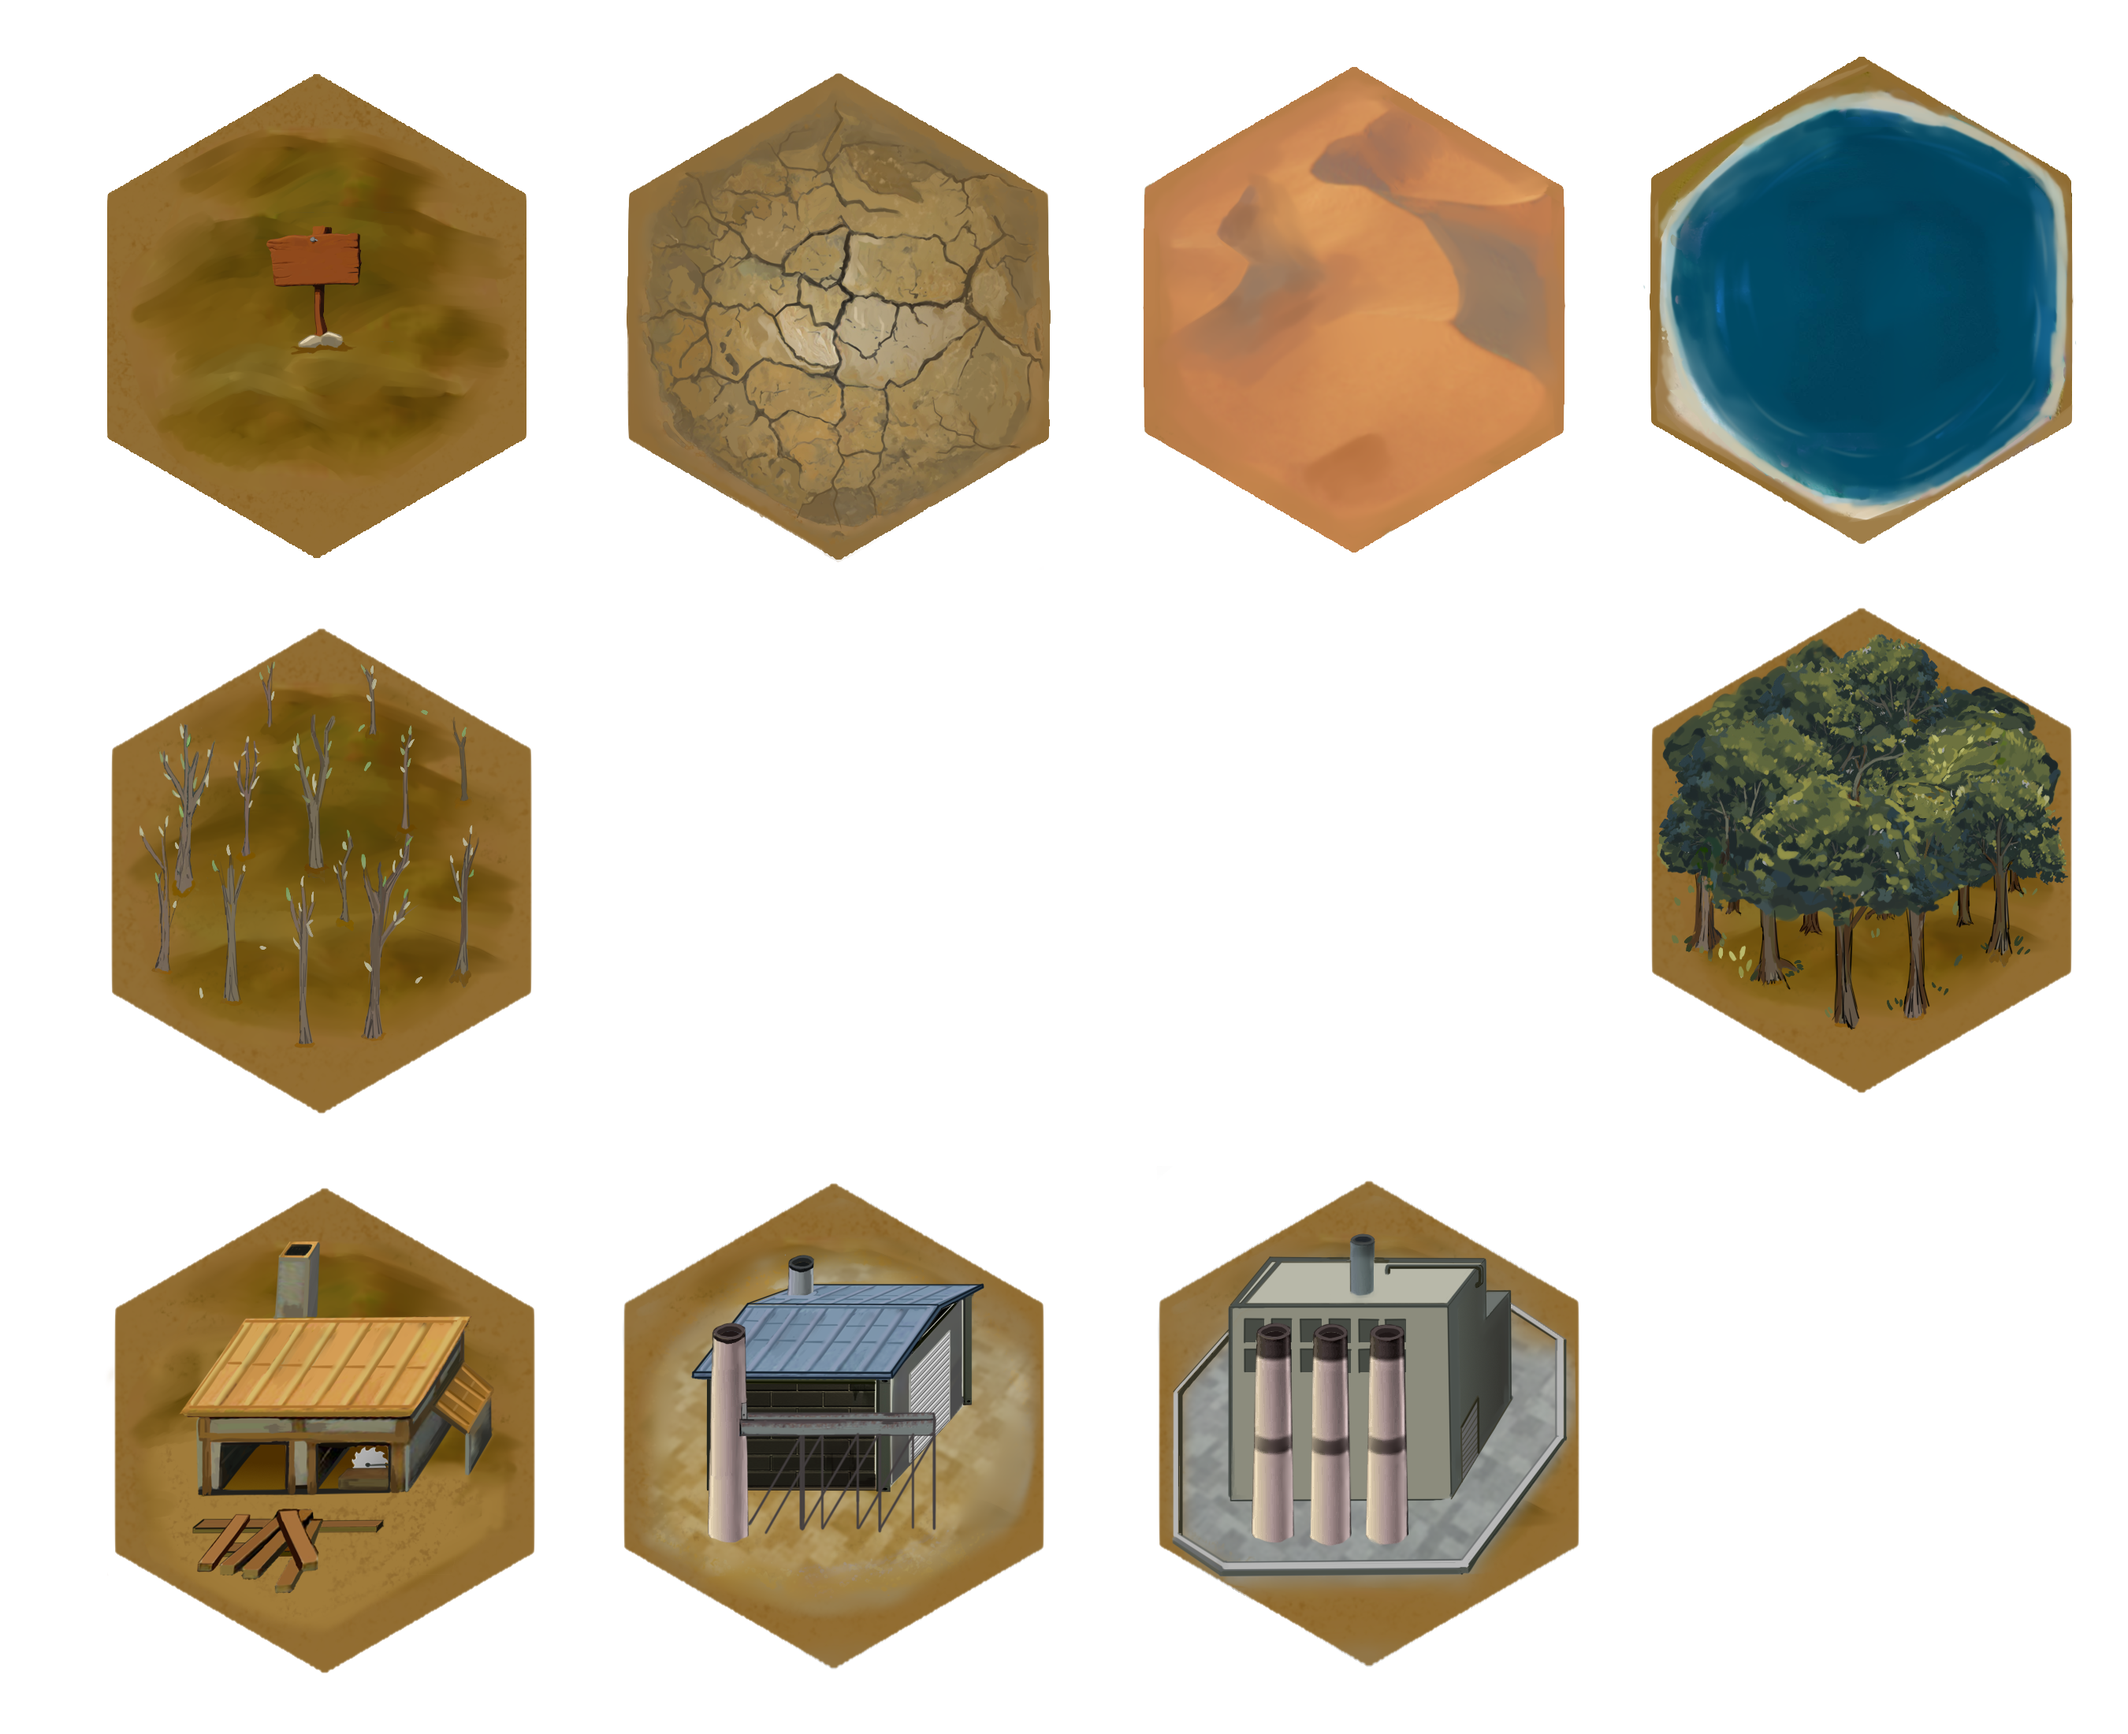
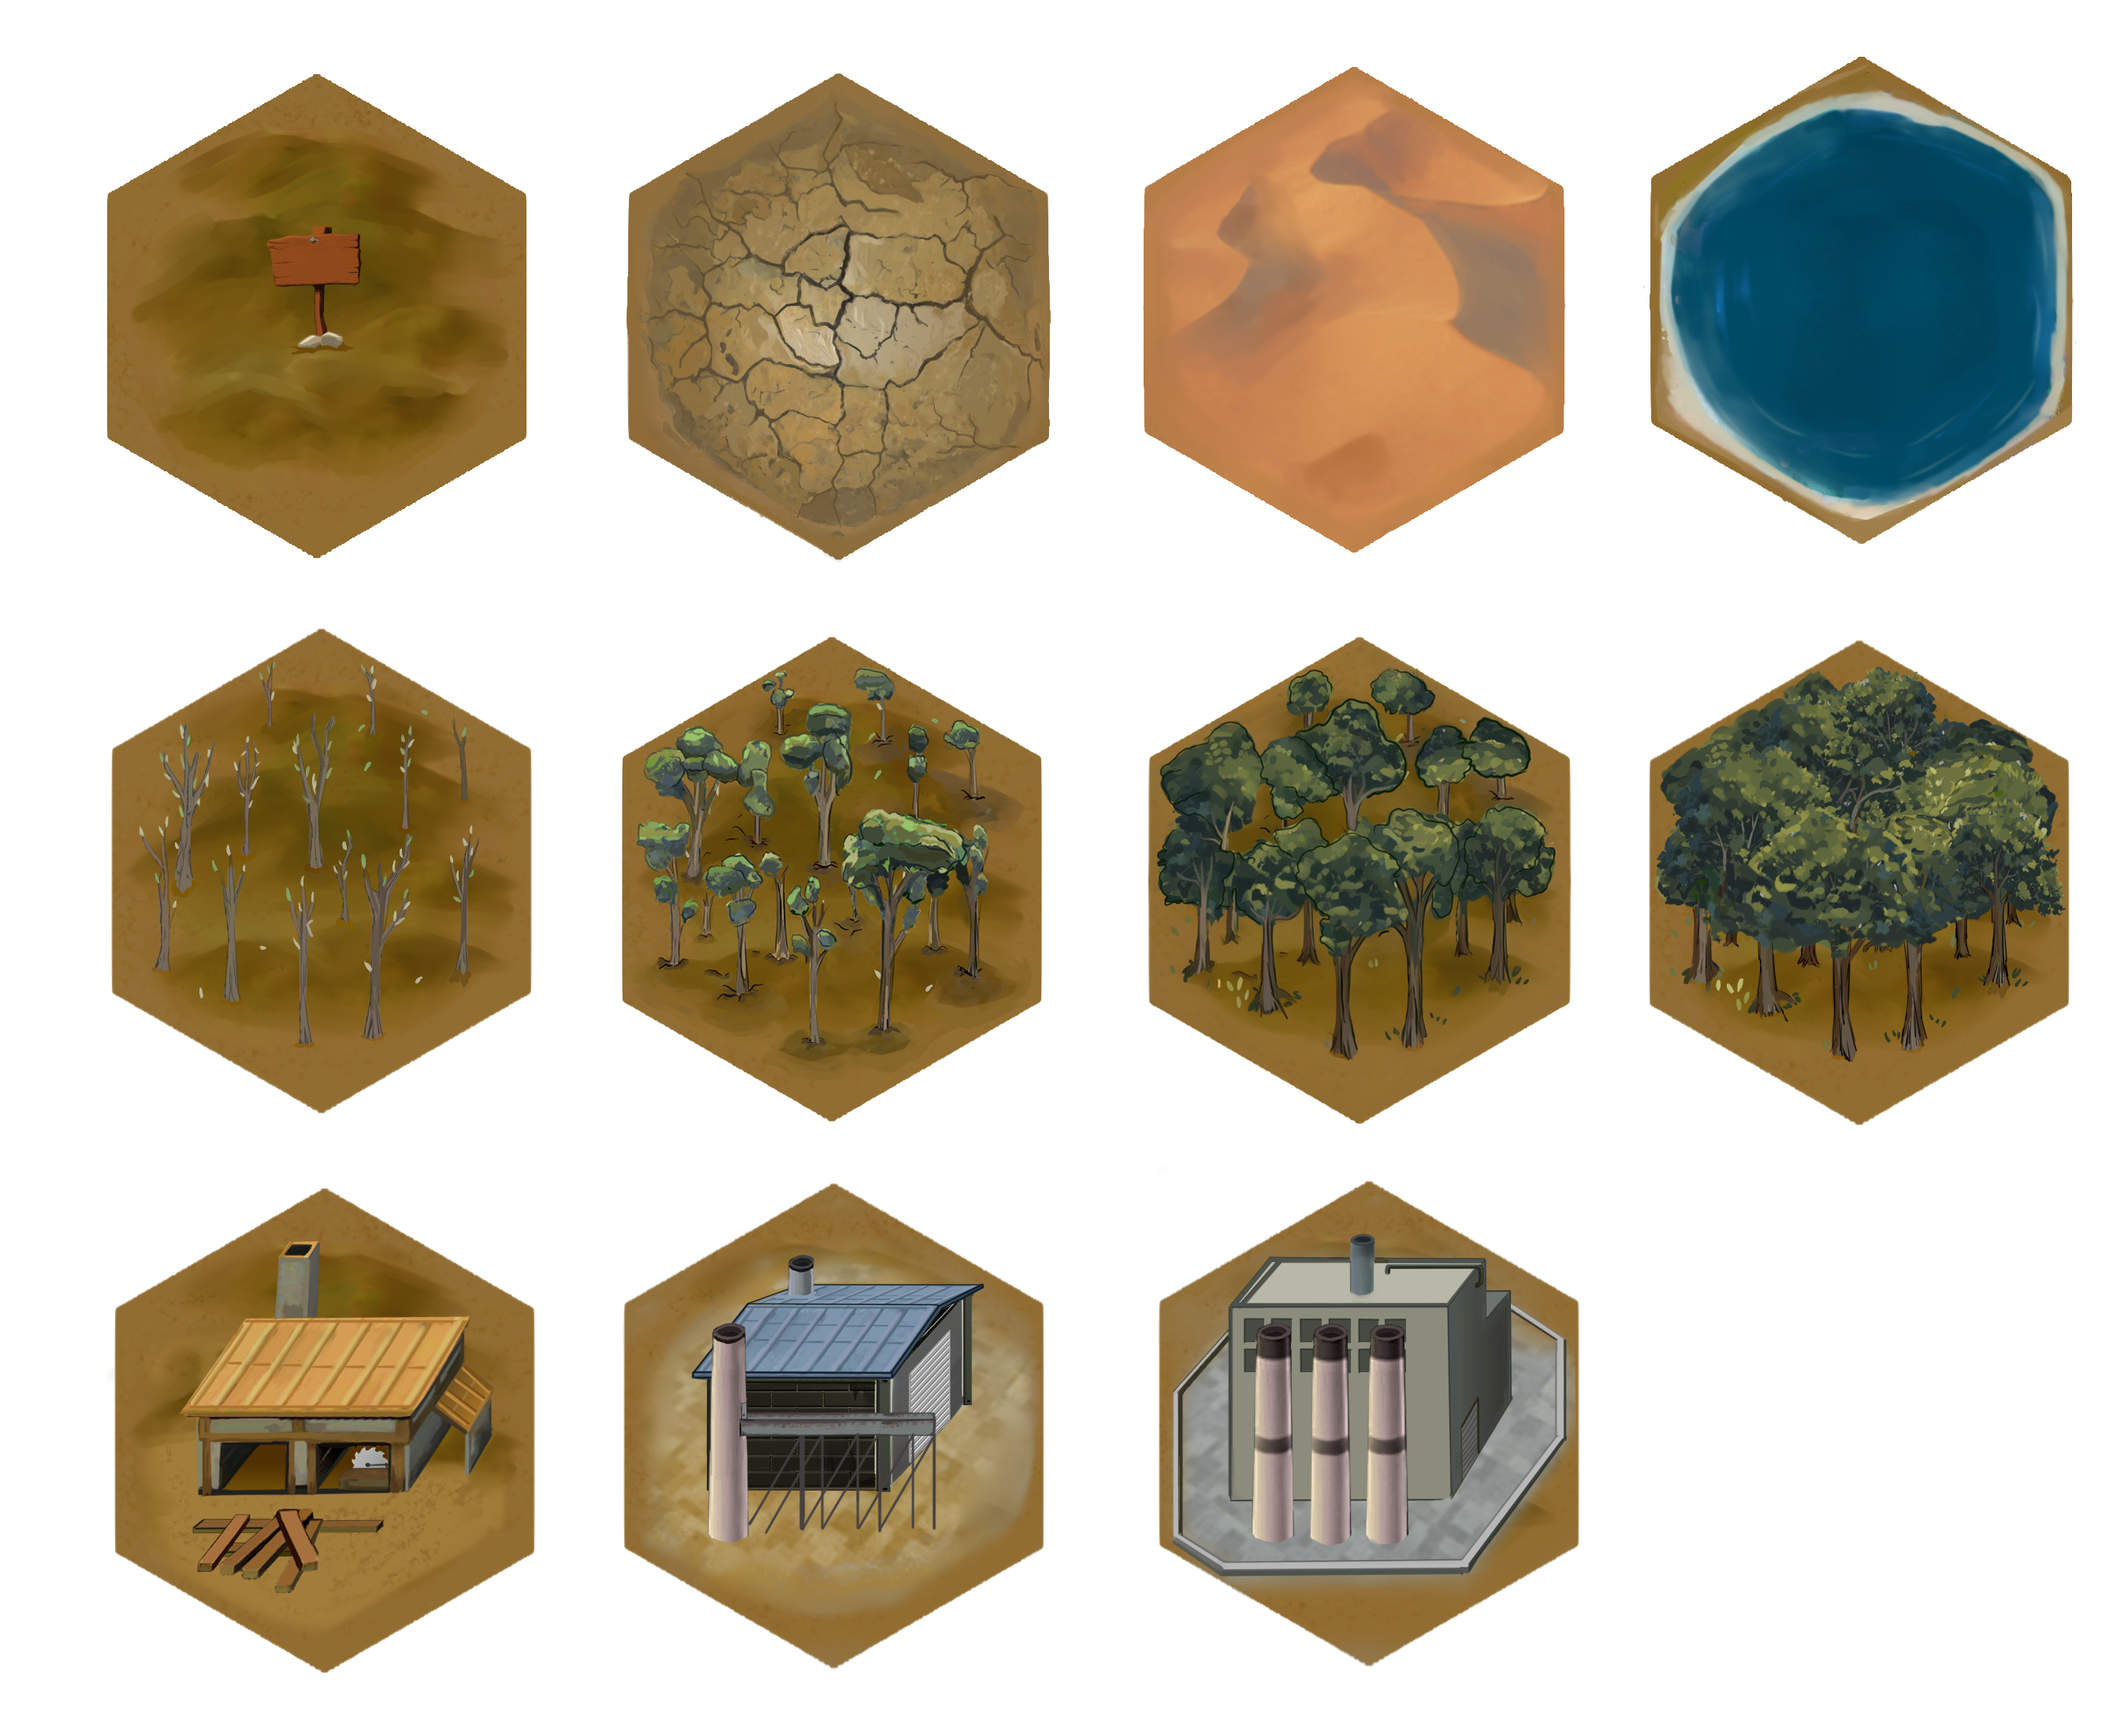
update UI; release

Changed region(s): [[0.7778, 0.34, 0.9956, 0.6491], [0.28, 0.3709, 0.4978, 0.6491], [0.5289, 0.3709, 0.7467, 0.6491]]

diff --git a/Assets/Scripts/DemoGameCore/Map/SpriteLoader.cs b/Assets/Scripts/DemoGameCore/Map/SpriteLoader.cs
@@ -26,14 +26,15 @@ namespace Map
             
             field[0] = (Sprite)sprites[1];
             field[1] = (Sprite)sprites[2];
-            forest[0] = (Sprite)sprites[5];
-            forest[1] = (Sprite)sprites[6];
-            forest[2] = (Sprite)sprites[6];
-            factory[0] = (Sprite)sprites[7];
-            factory[1] = (Sprite)sprites[8];
-            factory[2] = (Sprite)sprites[9];
             desert = (Sprite)sprites[3];
             lake = (Sprite)sprites[4];
+            forest[0] = (Sprite)sprites[6];
+            forest[1] = (Sprite)sprites[7];
+            forest[2] = (Sprite)sprites[8];
+            factory[0] = (Sprite)sprites[9];
+            factory[1] = (Sprite)sprites[10];
+            factory[2] = (Sprite)sprites[11];
+            
 
         }
     }

diff --git a/Assets/Scripts/DemoGameCore/ui/sub/DemoStorageInfoBoardVM.cs b/Assets/Scripts/DemoGameCore/ui/sub/DemoStorageInfoBoardVM.cs
@@ -10,7 +10,6 @@ using System.Collections;
 using System.Collections.Generic;
 using System.Linq;
 using Unity.VisualScripting;
-using UnityEditor.Experimental.GraphView;
 using UnityEngine;
 using UnityEngine.UI;
 
